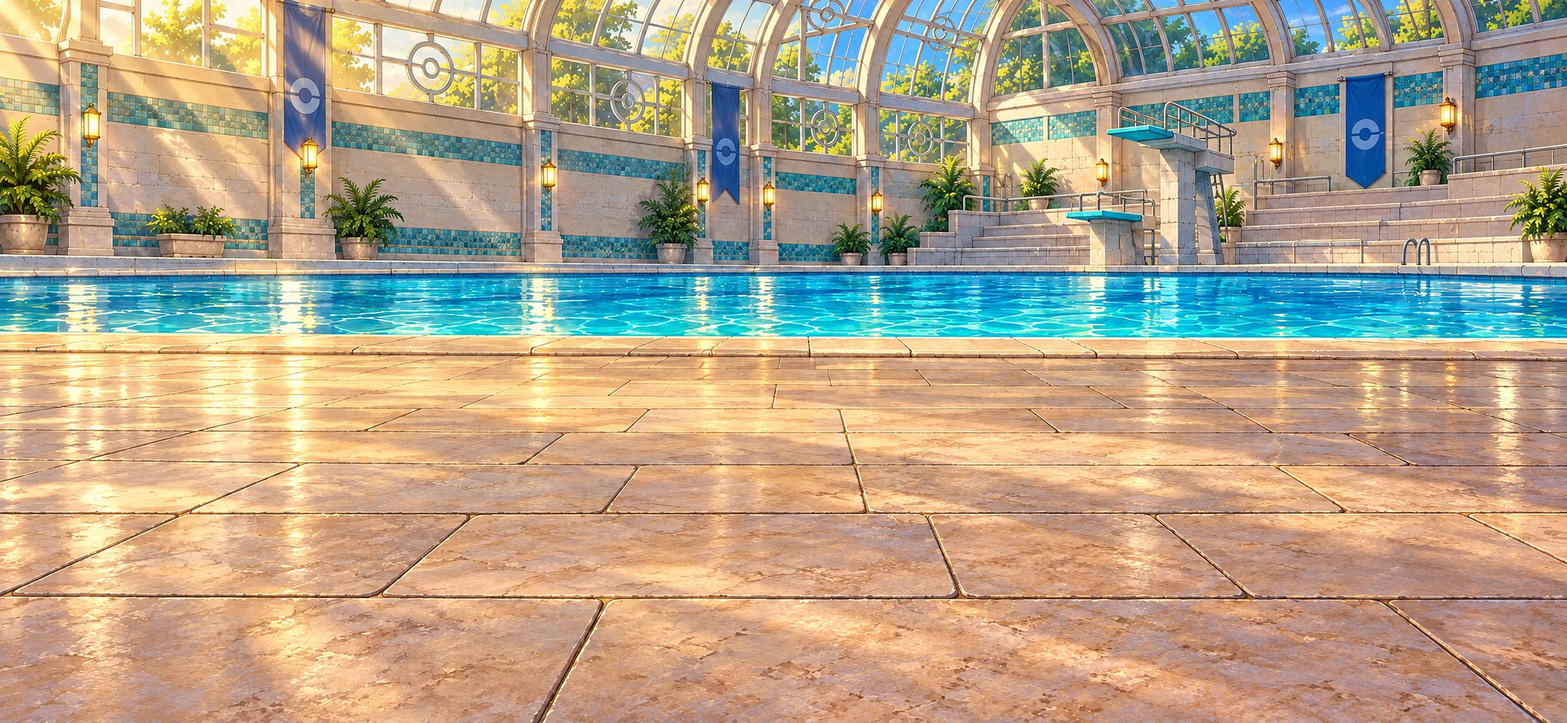
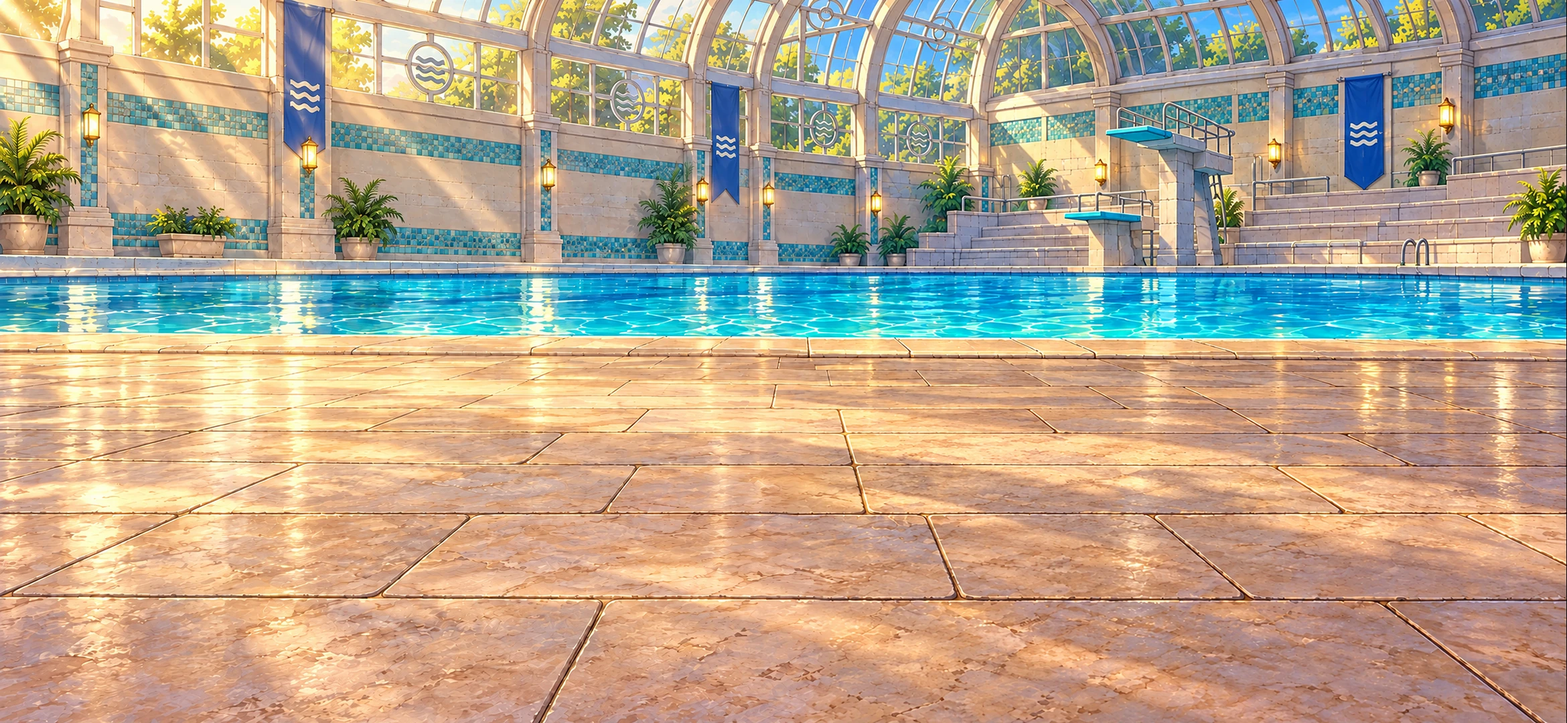
J13 T3 : décors de combat validés par Kevin ; bannières de l'Arène repeintes (vagues au lieu de l'emblème rond)

Changed region(s): [[0.0, 0.0, 1.0, 1.0], [0.0, 0.6111, 0.0936, 0.6722], [0.4368, 0.5806, 0.4679, 0.6111]]

diff --git a/docs/tech/jalon-13.md b/docs/tech/jalon-13.md
@@ -764,7 +764,7 @@ et de l'annexe A validée.
   de contact `build/captures/jalon13_assets/` → Kevin. **CA** : images validées ; journal dans la
   fiche ; ni manifeste ni scène.
 
-#### T3 — constructeur-monde (Mac) : décors de combat → **13.0-art** — **Fait, à valider par Kevin**
+#### T3 — constructeur-monde (Mac) : décors de combat → **13.0-art** — **Fait, validé par Kevin le 2026-10-11**
 - `route_4_plaine`, `route_24_pont`, `cerulean_gym_bassin` (§2.18) par la chaîne CB.3. **CA** :
   validés par Kevin sur capture de combat Mac.
 - **Fait** : 3 masters 2340 × 1080 (`assets/battle/decors/<id>_back.webp`, ≈ 0,8–1,0 Mo), recette
@@ -777,7 +777,11 @@ et de l'annexe A validée.
   tests inchangés). Ligne de sol commune (pieds 1559, 540 / 716, 972), pas de calque de premier plan
   (sol nu dans les coins : choix, comme la Route 3). Captures :
   `build/captures/jalon13_decors/cb3_<id>_{transition,roucool,capacites}.png`.
-- **À regarder** : Route 24, l'adversaire pose les pieds au bord de la rivière, au pied du pont
+- **Validation (Kevin, 2026-10-11)** : `route_4_plaine` et `route_24_pont` validés ; `cerulean_gym_bassin`
+  validé, bannières repeintes : l'emblème rond (Poké Ball) devient trois vagues stylisées
+  (bannières et médaillons de la verrière), par retouche de la composition (`..._GYM_AZURIA_BASSIN_r2`,
+  le reste identique) puis tuiles repeintes, même chaîne CB.3.
+- **Regardé à la livraison** : Route 24, l'adversaire pose les pieds au bord de la rivière, au pied du pont
   (le corps recouvre le garde-corps) ; Arène, les bannières portent un emblème rond (motif de
   ligue générique, repeignable) ; arbre en haut à gauche de la Route 24 sous la carte de PV.
 
